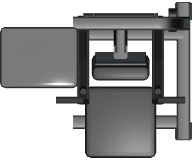
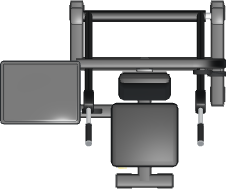
v2.9.4: 시티드 딥을 참고 제품 사진대로 다시 만듦 (프레스 팔·그립, 타워, 좌석 장치, 프레임)

diff --git a/js/catalog.js b/js/catalog.js
@@ -86,7 +86,7 @@ T('latpull', '랫풀다운', 'machine', 1.2, 1.43, 2.25, [0.9, 0.15, 0.6, 0.6], 
 T('longpull', '롱풀', 'machine', 0.85, 2.22, 2.27, [0.5, 0.15, 0.5, 0.5], {kw:'시티드 케이블 로우 롱풀 row'});
 T('latlong', '랫풀다운 & 롱풀', 'machine', 1.58, 2.01, 2.24, [0.6, 0.15, 0.6, 0.6], {kw:'겸용 랫풀 롱풀'});
 T('seatedrow', '시티드 로우', 'machine', 0.87, 1.29, 1.94, [0.6, 0.15, 0.6, 0.6], {kw:'로우 등 seated row'});
-T('seateddip', '시티드 딥', 'machine', 1.13, 0.94, 1.48, [0.6, 0.15, 0.6, 0.6], {kw:'딥스 삼두 dip'});
+T('seateddip', '시티드 딥', 'machine', 1.33, 1.11, 1.48, [0.6, 0.15, 0.6, 0.6], {kw:'딥스 삼두 dip'});
 T('assistdip', '어시스트 친딥', 'machine', 1.15, 1.28, 2.19, [0.8, 0.15, 0.5, 0.5], {kw:'어시스트 풀업 친업 딥 assist'});
 T('armcurl', '암컬', 'machine', 1.06, 1.32, 1.55, [0.6, 0.15, 0.5, 0.5], {kw:'이두 암컬 biceps curl'});
 T('triceps', '트라이셉스 익스텐션', 'machine', 1.04, 1.06, 1.4, [0.6, 0.15, 0.5, 0.5], {kw:'삼두 triceps'});

diff --git a/sw.js b/sw.js
@@ -4,7 +4,7 @@
                       not have yet (about 20 MB stayed put instead of being fetched again each time). They are still asked for
                       from the site first, so a changed picture or model arrives when online.
    MODELS (kept)      3D libraries and files that never change under the same address: cache first. */
-const CACHE = 'gofit-planner-v3.11.3', ASSETS = 'gofit-assets-v1', MODELS = 'gofit-models-v2';
+const CACHE = 'gofit-planner-v3.11.4', ASSETS = 'gofit-assets-v1', MODELS = 'gofit-models-v2';
 const FILES = [
   './', 'index.html', 'manifest.webmanifest', 'css/app.css',
   'js/core.js', 'js/catalog.js', 'js/media.js', 'vendor/three.min.js', 'vendor/OrbitControls.js', 'js/m3-parts.js', 'js/m3-models-a.js', 'js/m3-models-b.js', 'js/render3d.js', 'js/symbols.js', 'js/plan.js', 'js/checks.js', 'js/ui.js', 'js/overlay.js', 'js/tools.js', 'js/panels.js', 'js/export.js', 'js/viewer3d.js', 'js/view3d.js', 'js/backup.js', 'js/wizard.js', 'js/app.js',

diff --git a/js/core.js b/js/core.js
@@ -2,7 +2,7 @@
 (function () {
 'use strict';
 const GP = window.GP = window.GP || {};
-GP.VERSION = '2.9.3';
+GP.VERSION = '2.9.4';
 GP.errors = [];
 window.addEventListener('error', e => { GP.errors.push(String(e.message || e)); });
 window.addEventListener('unhandledrejection', e => { GP.errors.push('promise: ' + String(e.reason && e.reason.message || e.reason)); });
